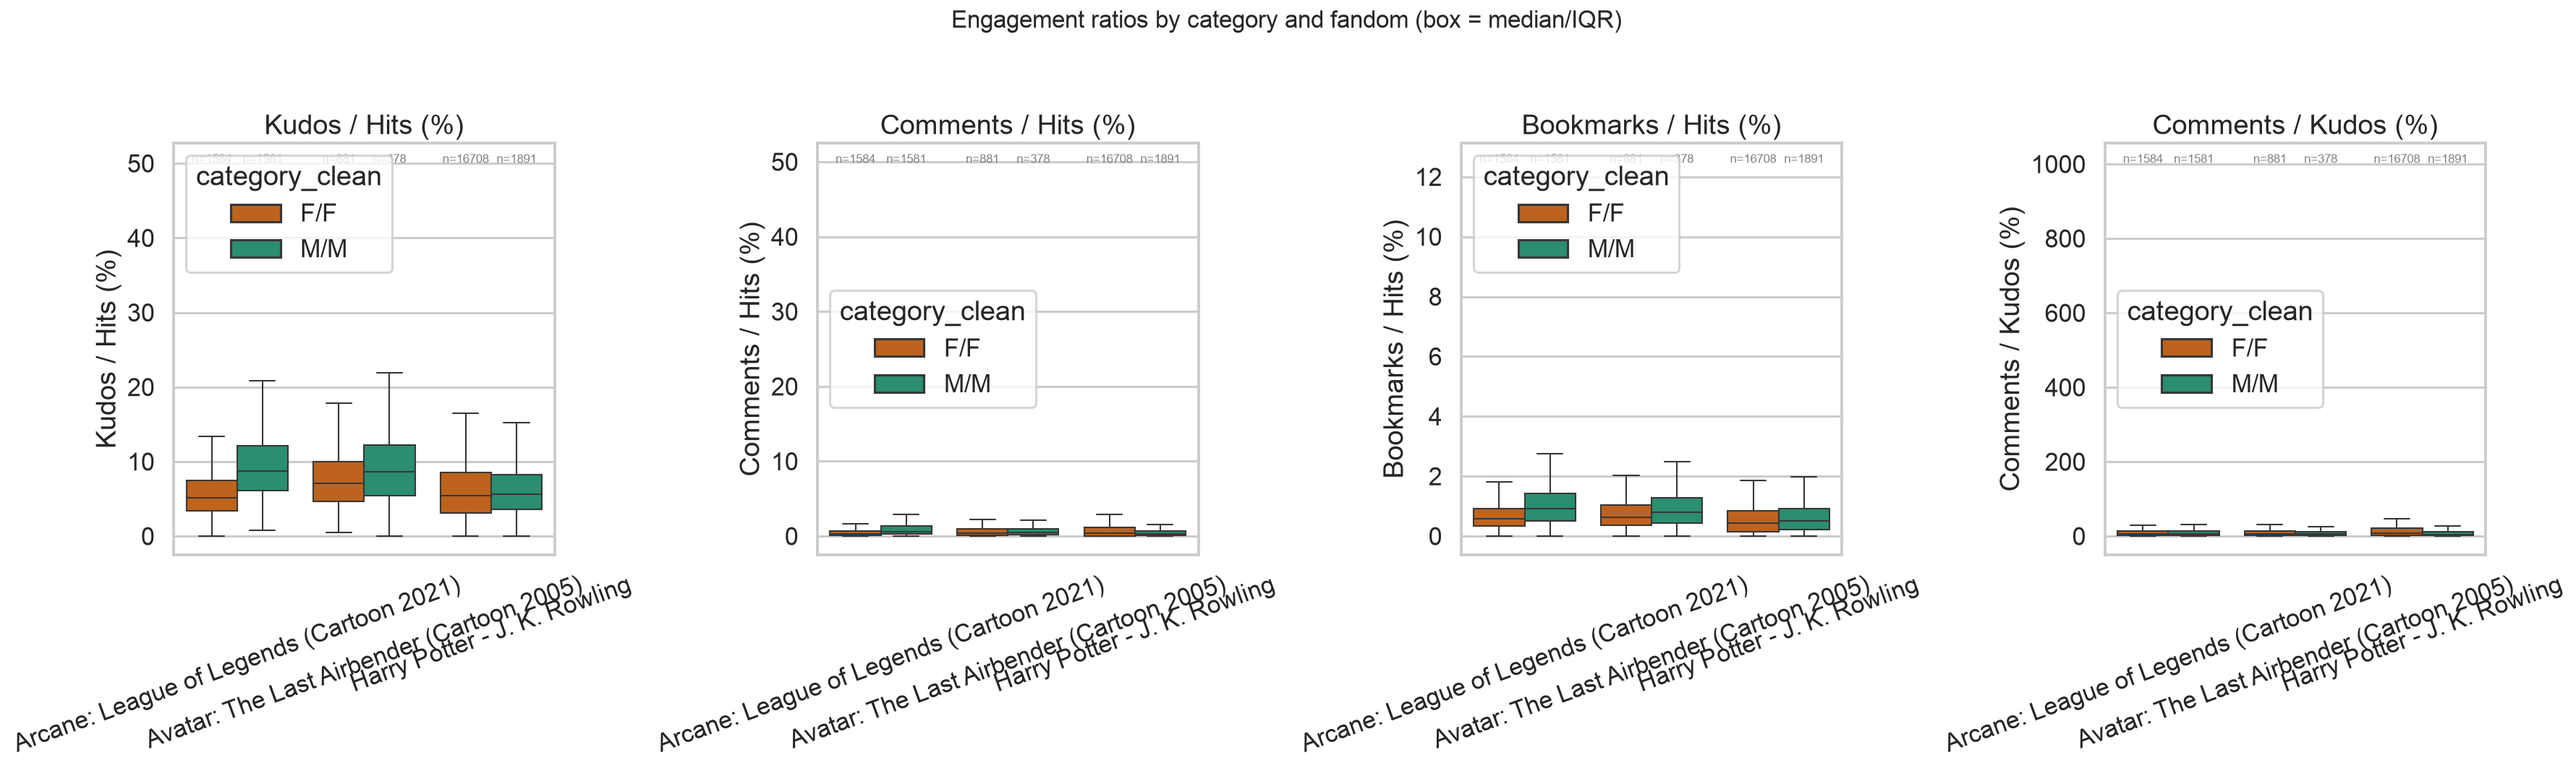
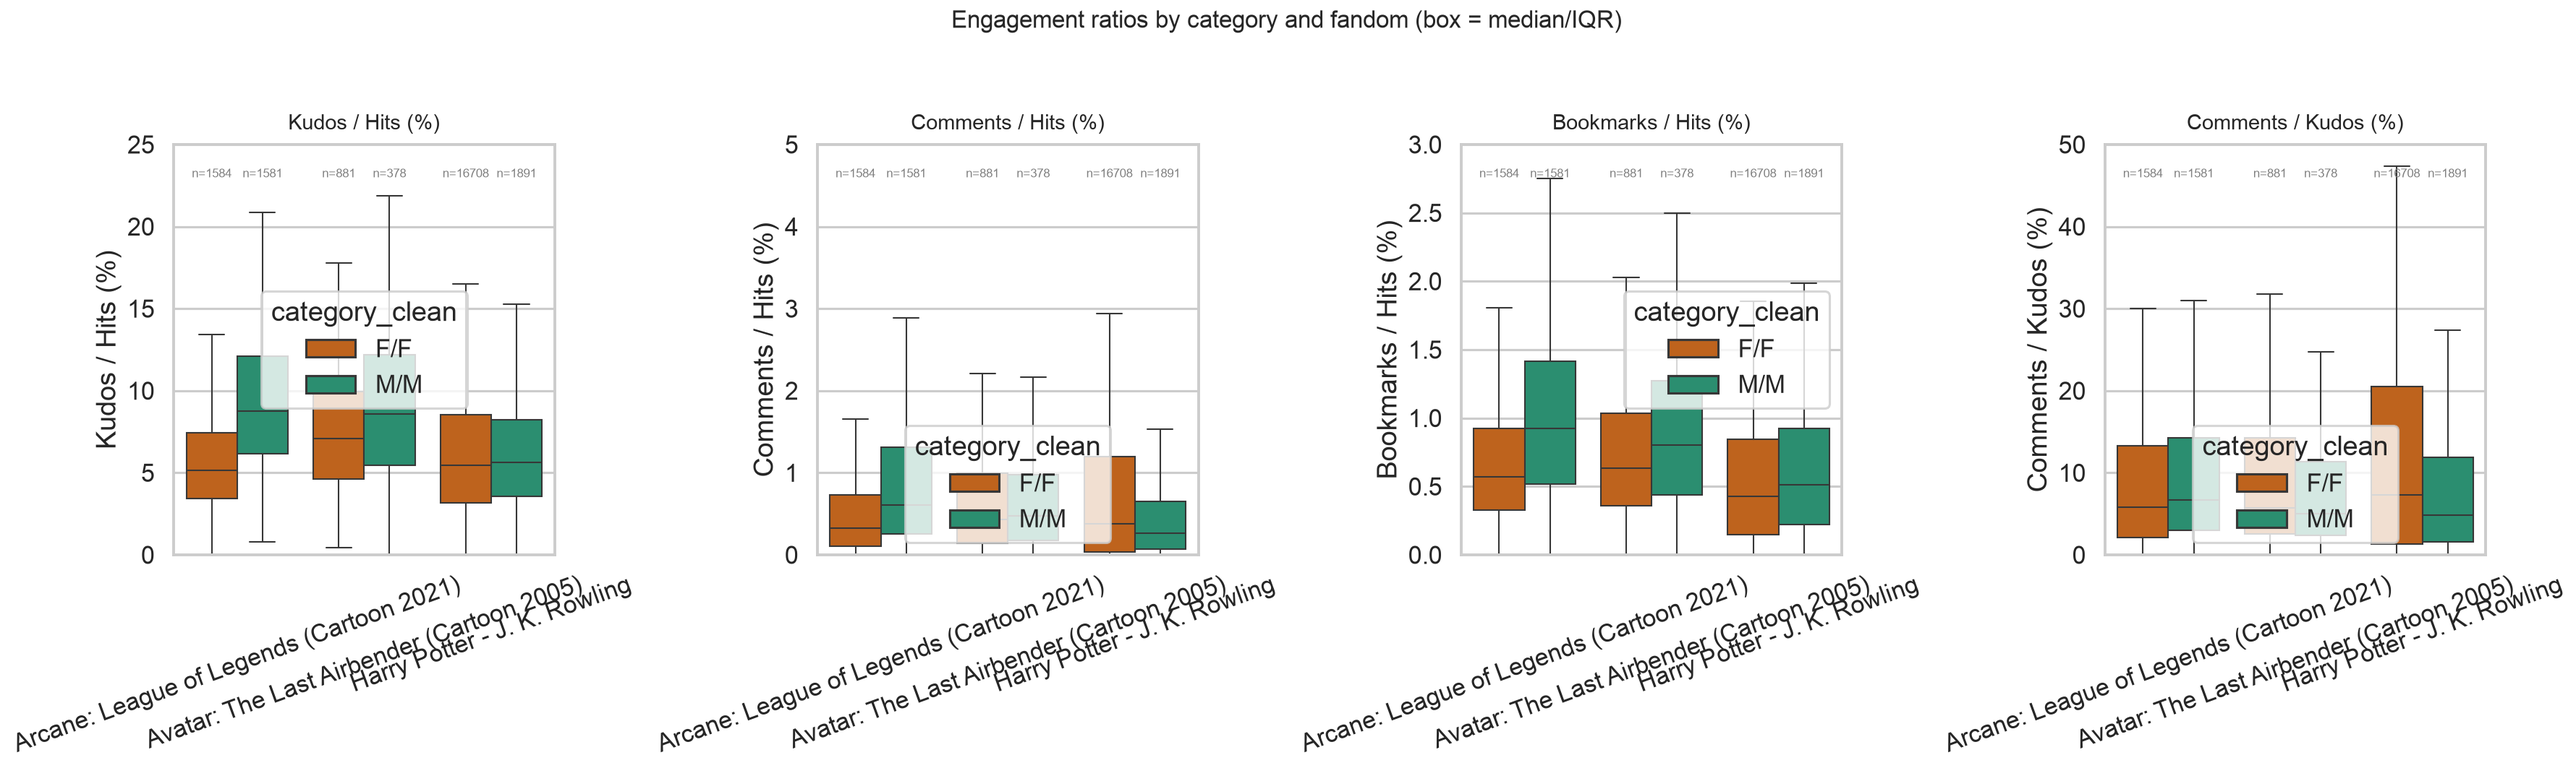
adding graphs

diff --git a/CSVFiles/analyser_grapher.py b/CSVFiles/analyser_grapher.py
@@ -202,35 +202,43 @@ def plot_ecdfs(df):
 
 def plot_distributions(df):
     """
-    Box plots (median + IQR) rather than bar charts of means, for the
-    same right-skew reason as above -- the median is a more honest
-    "typical value" than the mean when outliers can drag the mean up.
-    Faceted by fandom rather than pooled: pooling fandoms together
-    risks Simpson's-paradox-style confounding, where a real pattern
-    within each fandom gets hidden or reversed once mixed together
-    (especially relevant here since your two fandoms differ a lot in
-    size and M/M:F/F ratio).
+    Box plots (median + IQR) showing engagement ratios by category and fandom.
+    Outliers (fliers) are preserved but clipped at the top of the axis via set_ylim().
     """
+    # Define max y-limits that show the main boxes clearly. 
+    # Any outlier higher than these values will be drawn clipped along the top border.
+    Y_LIMITS = {
+        "kudos_to_hits": (0, 25),       # Graph 1: Kudos / Hits (%)
+        "comments_to_hits": (0, 5),     # Graph 2: Comments / Hits (%)
+        "bookmarks_to_hits": (0, 3),    # Graph 3: Bookmarks / Hits (%)
+        "comments_to_kudos": (0, 50)    # Graph 4: Comments / Kudos (%)
+    }
+
     fig, axes = plt.subplots(1, len(ENGAGEMENT_METRICS), figsize=(24, 7))
+    
     for ax, (col, label) in zip(axes, ENGAGEMENT_METRICS):
         sns.boxplot(
             data=df, x="fandom", y=col, hue="category_clean", hue_order=CATEGORY_ORDER,
-            palette=CATEGORY_PALETTE, ax=ax, showfliers=True, flierprops=FLIER_PROPS,
+            palette=CATEGORY_PALETTE, ax=ax, 
+            showfliers=True,              # Keeps the outlier dots visible
+            flierprops=FLIER_PROPS        # Uses your custom flier styling
         )
-        ax.set_title(label)
+        ax.set_title(label, fontsize=14, pad=10)
         ax.set_ylabel(label)
         ax.set_xlabel("")
         ax.tick_params(axis="x", rotation=20)
 
-        # Annotate group sizes directly on the plot. Never show a
-        # summary comparison without the reader being able to see how
-        # much data it's based on -- a dramatic-looking median
-        # difference from 8 works means something very different than
-        # the same difference from 300 works.
+        # Set specific y-axis bounds to clip extreme fliers to the top boundary
+        if col in Y_LIMITS:
+            y_min, y_max = Y_LIMITS[col]
+            ax.set_ylim(y_min, y_max)
+
+        # Annotate group sizes (n=...) slightly below the top edge (at 92% height)
+        current_ymax = ax.get_ylim()[1]
         for k, fandom in enumerate(df["fandom"].unique()):
             for cat, offset in [("M/M", -0.2), ("F/F", 0.2)]:
                 n = ((df["fandom"] == fandom) & (df["category_clean"] == cat)).sum()
-                ax.text(k + offset, ax.get_ylim()[1] * 0.95, f"n={n}", ha="center", fontsize=8, color="gray")
+                ax.text(k + offset, current_ymax * 0.92, f"n={n}", ha="center", fontsize=8, color="gray")
 
     fig.suptitle("Engagement ratios by category and fandom (box = median/IQR)", y=1.03, fontsize=16)
     fig.tight_layout()
@@ -614,10 +622,10 @@ def run_group_comparisons(df):
     Benjamini-Hochberg FDR correction before being reported, rather
     than just printing a verbal warning about multiple comparisons.
     """
-    print("=" * 60)
+    print("~" * 60)
     print("MANN-WHITNEY U COMPARISONS (M/M vs F/F), BY FANDOM")
     print("DESCRIPTIVE / HYPOTHESIS-GENERATING ONLY")
-    print("=" * 60)
+    print("~" * 60)
 
     all_metrics = ENGAGEMENT_METRICS + WORD_NORMALIZED_METRICS
     results = []
